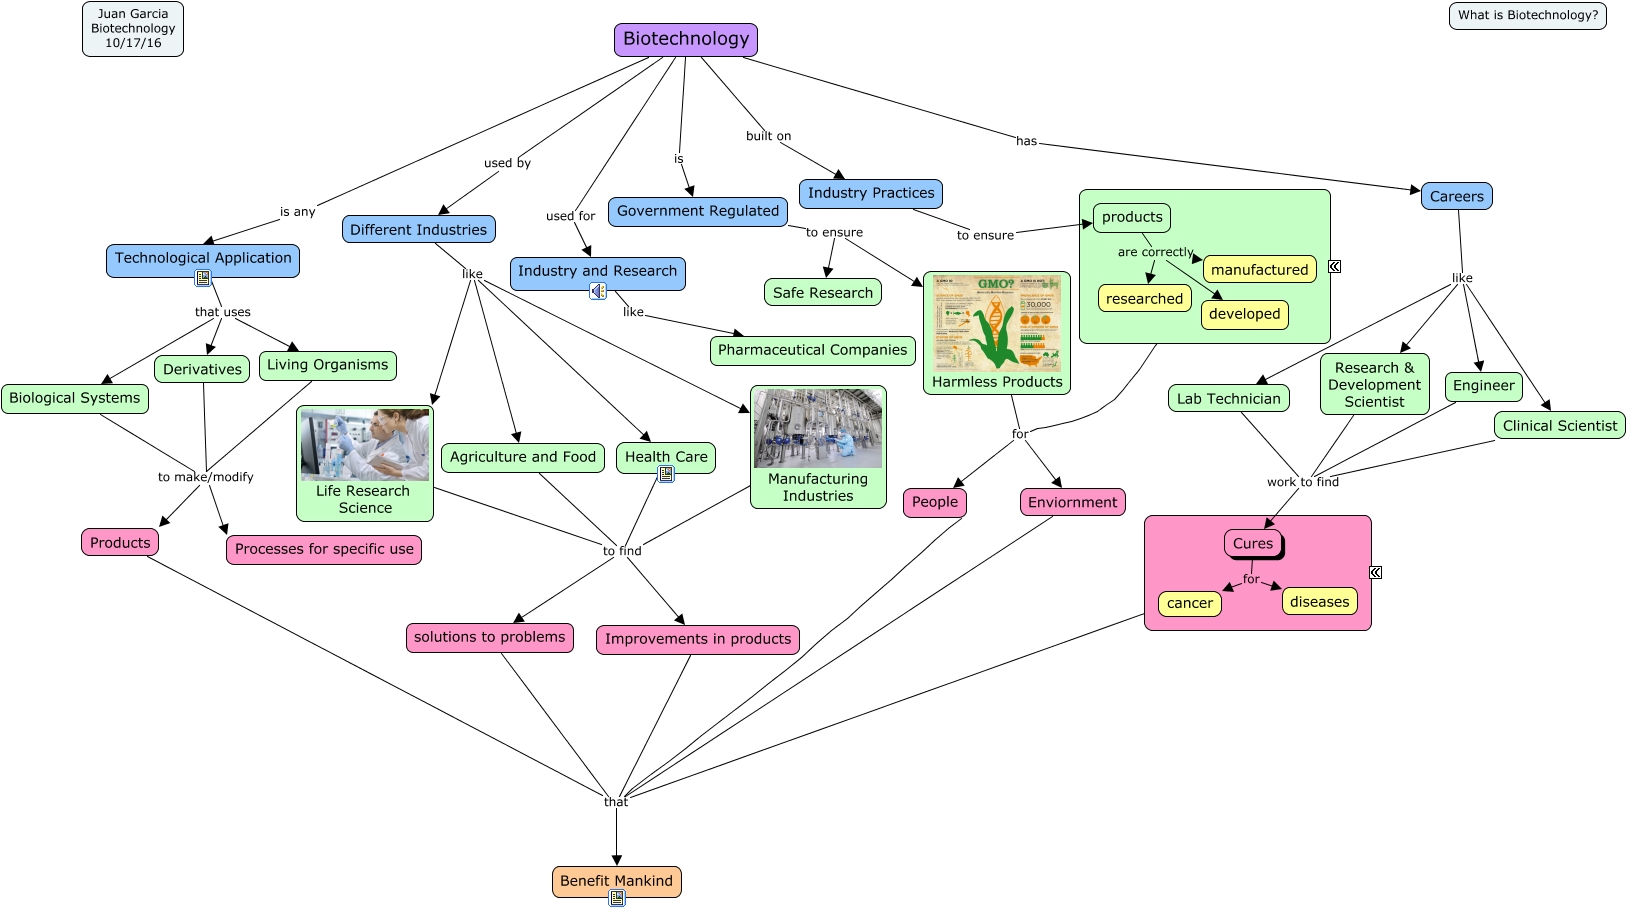
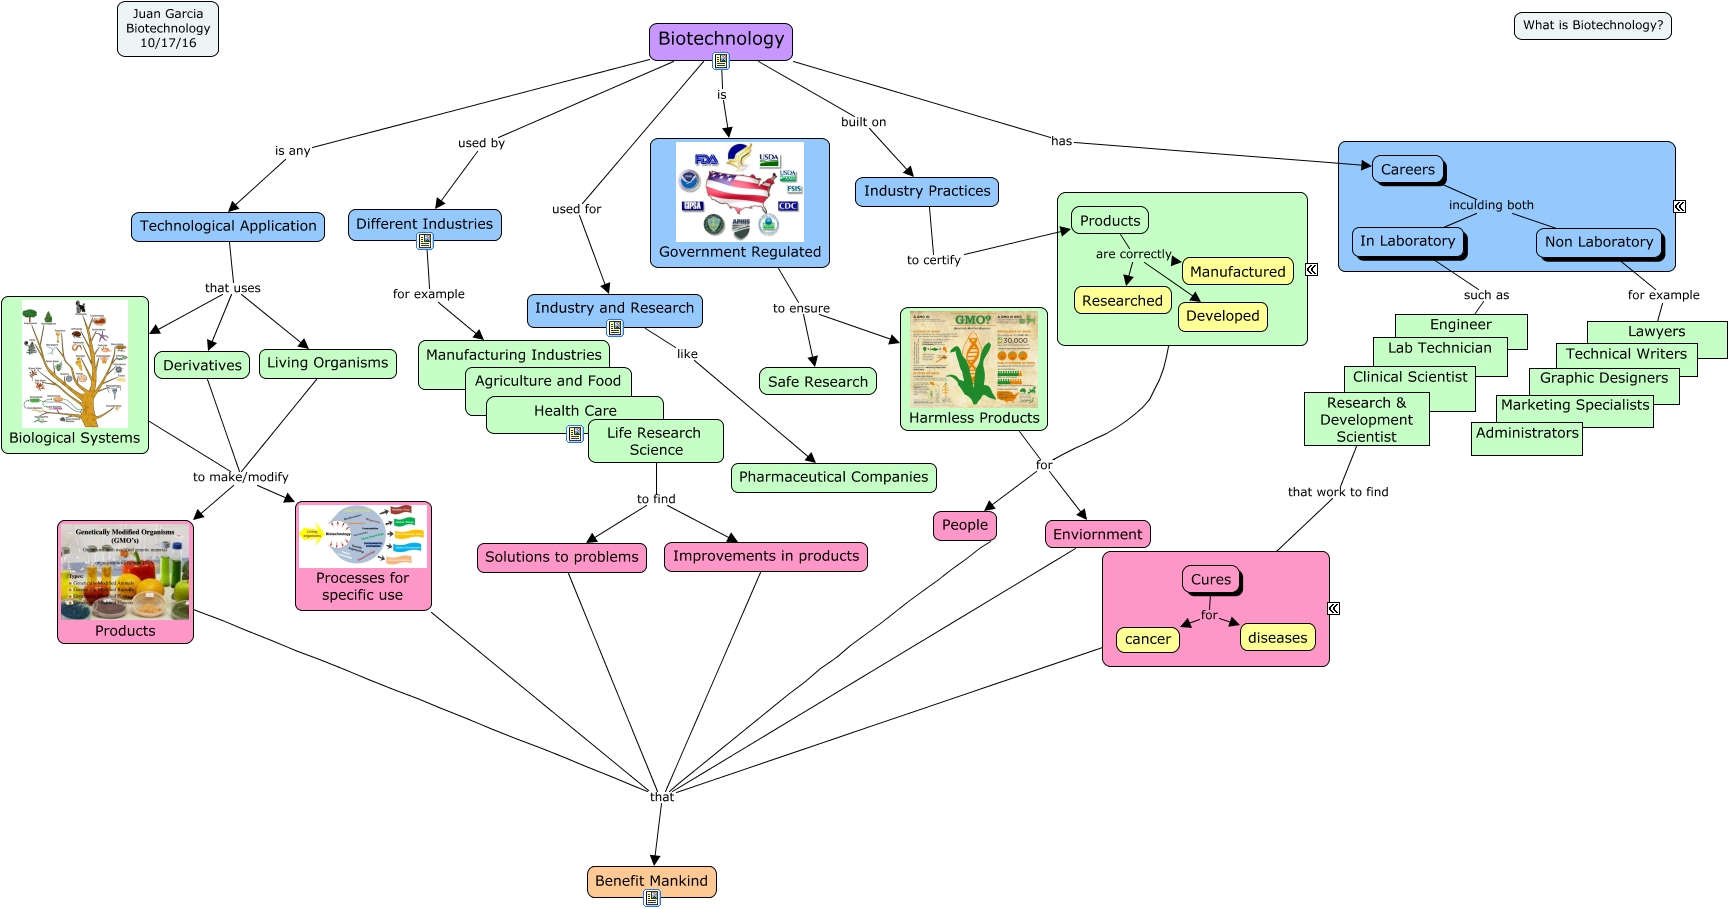
Add files via upload

diff --git a/BiotechExport/Biotech.html b/BiotechExport/Biotech.html
@@ -2,8 +2,8 @@
 <HEAD>
   <TITLE>Biotech.html</TITLE>
   <meta NAME = "GENERATOR"          CONTENT = "IHMC CmapTools vr. 4.12 ">
-  <meta NAME = "KEYWORDS"           CONTENT = "Juan Garcia, Concept Map, cmap, CmapTools, IHMC, Biotech,  Clinical Scientist,  Research & Development Scientist,  Industry and Research,  Lab Technician,  Health Care,  developed,  Cures,  People,  Good Production,  Technological Application,  Harmless Products,  solutions to problems,  Benefit Mankind,  Agriculture and Food,  Juan Garcia Biotechnology 10/17/16,  Engineer,  Life Research Science,  Biological Systems,  researched,  manufactured">
-  <meta NAME = "DESCRIPTION"        CONTENT = "This Concept Map, created with IHMC CmapTools, has information related to: Biotech, Government Regulated to ensure Safe Research, Cures for diseases, Industry Practices to ensure products, Cures that Benefit Mankind, Engineer work to find Cures, Biotechnology is any Technological Application, Careers like Clinical Scientist, Government Regulated to ensure Harmless Products, Living Organisms to make/modify Products, Different Industries like Manufacturing Industries, Biological Systems to make/modify Products, Technological Application that uses Biological Systems, Life Research Science to find solutions to problems, Health Care to find Improvements in products, products are correctly developed, Life Research Science to find Improvements in products, Cures for cancer, Research & Development Scientist work to find Cures, Products that Benefit Mankind, Agriculture and Food to find solutions to problems">
+  <meta NAME = "KEYWORDS"           CONTENT = "Juan Garcia, Concept Map, cmap, CmapTools, IHMC, Biotech,  Derivatives,  Cures,  Benefit Mankind,  Technological Application,  Industry Practices,  Lawyers,  In Laboratory,  Technical Writers,  Government Regulated,  Careers,  Safe Research,  Careers,  Industry and Research,  cancer,  Cures,  Graphic Designers,  Processes for specific use,  Engineer,  People,  Biological Systems">
+  <meta NAME = "DESCRIPTION"        CONTENT = "This Concept Map, created with IHMC CmapTools, has information related to: Biotech, Good Production for Enviornment, Products are correctly Developed, Industry Practices to certify Products, Biotechnology has Careers, Government Regulated to ensure Safe Research, Products that Benefit Mankind, Derivatives to make/modify Processes for specific use, Life Research Science to find Solutions to problems, Research & Development Scientist that work to find Cures, Derivatives to make/modify Products, Biotechnology used by Different Industries, In Laboratory such as Engineer, Non Laboratory for example Lawyers, Biotechnology built on Industry Practices, Living Organisms to make/modify Products, Biological Systems to make/modify Processes for specific use, Industry and Research like Pharmaceutical Companies, Improvements in products that Benefit Mankind, Cures that Benefit Mankind, Cures for cancer">
   <meta NAME = "AUTHOR"             CONTENT = "IHMC CmapTools">
   <meta HTTP-EQUIV = "Content-Type" CONTENT = "text/html; charset = UTF-8">
   <script LANGUAGE="JavaScript1.2">
@@ -205,27 +205,31 @@
       </td>
     </tr>
   </table>
-This Concept Map, created with IHMC CmapTools, has information related to: Biotech, Government Regulated to ensure Safe Research, Cures for diseases, Industry Practices to ensure products, Cures that Benefit Mankind, Engineer work to find Cures, Biotechnology is any Technological Application, Careers like Clinical Scientist, Government Regulated to ensure Harmless Products, Living Organisms to make/modify Products, Different Industries like Manufacturing Industries, Biological Systems to make/modify Products, Technological Application that uses Biological Systems, Life Research Science to find solutions to problems, Health Care to find Improvements in products, products are correctly developed, Life Research Science to find Improvements in products, Cures for cancer, Research & Development Scientist work to find Cures, Products that Benefit Mankind, Agriculture and Food to find solutions to problems
+This Concept Map, created with IHMC CmapTools, has information related to: Biotech, Good Production for Enviornment, Products are correctly Developed, Industry Practices to certify Products, Biotechnology has Careers, Government Regulated to ensure Safe Research, Products that Benefit Mankind, Derivatives to make/modify Processes for specific use, Life Research Science to find Solutions to problems, Research & Development Scientist that work to find Cures, Derivatives to make/modify Products, Biotechnology used by Different Industries, In Laboratory such as Engineer, Non Laboratory for example Lawyers, Biotechnology built on Industry Practices, Living Organisms to make/modify Products, Biological Systems to make/modify Processes for specific use, Industry and Research like Pharmaceutical Companies, Improvements in products that Benefit Mankind, Cures that Benefit Mankind, Cures for cancer
 
 </noscript>
 
 <map name="Biotech.html">
   <area shape="rect"
-        href="1QP5S8WXYI14M05G2IMLIaudio"
-        onClick="popUpEvt(event,'1QP5S8WXYI14M05G2IMLIaudio'); return false;"
-        coords="589,282,607,300">
+        href="1QP5WT5ZYIYQFWGFI27KItextIhtml"
+        onClick="popUpEvt(event,'1QP5WT5ZYIYQFWGFI27KItextIhtml'); return false;"
+        coords="643,889,661,907">
+  <area shape="rect"
+        href="1QP5S8WXYI14M05G2IMLItextIhtml"
+        onClick="popUpEvt(event,'1QP5S8WXYI14M05G2IMLItextIhtml'); return false;"
+        coords="606,319,624,337">
   <area shape="rect"
         href="1QNZY3TLKI6Z6Y2DI139ItextIhtml"
         onClick="popUpEvt(event,'1QNZY3TLKI6Z6Y2DI139ItextIhtml'); return false;"
-        coords="657,465,675,483">
+        coords="566,425,584,443">
   <area shape="rect"
-        href="1QNZW0ML5I10RD9QBIH7ItextIhtml"
-        onClick="popUpEvt(event,'1QNZW0ML5I10RD9QBIH7ItextIhtml'); return false;"
-        coords="194,269,212,287">
+        href="1QNZW077GI1N2D9BHIGGItextIhtml"
+        onClick="popUpEvt(event,'1QNZW077GI1N2D9BHIGGItextIhtml'); return false;"
+        coords="712,52,730,70">
   <area shape="rect"
-        href="1QP5WT5ZYIYQFWGFI27KItextIhtml"
-        onClick="popUpEvt(event,'1QP5WT5ZYIYQFWGFI27KItextIhtml'); return false;"
-        coords="608,889,626,907">
+        href="1QNZXNZLQIGWDW6LIYDItextIhtml"
+        onClick="popUpEvt(event,'1QNZXNZLQIGWDW6LIYDItextIhtml'); return false;"
+        coords="416,232,434,250">
 </map>
 
 <center>
@@ -270,11 +274,24 @@ This Concept Map, created with IHMC CmapTools, has information related to: Biote
 </center>
 </BODY>
 </HTML>
-<div id="1QP5S8WXYI14M05G2IMLIaudio" style="POSITION: absolute; Z-INDEX: 20; VISIBILITY: hidden; left: 0; top: 0;">
+<div id="1QP5WT5ZYIYQFWGFI27KItextIhtml" style="POSITION: absolute; Z-INDEX: 20; VISIBILITY: hidden; left: 0; top: 0;">
   <table border=1 cellpadding=1 cellspacing=0 bgcolor="#dddddd">
     <tr>
       <td nowrap><font face="Geneva, Arial" size=2>
-      CRISPR Tedtalk: Not Found
+      <a href="https://www.youtube.com/watch?v=ZTxBZ25WA4g "TITLE="">
+      BSc courses- Biotechnology at The University of Manchester - YouTube
+      </a>
+      </td>
+    </tr>
+  </table>
+</div>
+<div id="1QP5S8WXYI14M05G2IMLItextIhtml" style="POSITION: absolute; Z-INDEX: 20; VISIBILITY: hidden; left: 0; top: 0;">
+  <table border=1 cellpadding=1 cellspacing=0 bgcolor="#dddddd">
+    <tr>
+      <td nowrap><font face="Geneva, Arial" size=2>
+      <a href="https://www.ted.com/talks/ellen_jorgensen_what_you_need_to_know_about_crispr "TITLE="">
+      Ellen Jorgensen- What you need to know about CRISPR - TED Talk - TED.com
+      </a>
       </td>
     </tr>
   </table>
@@ -283,25 +300,31 @@ This Concept Map, created with IHMC CmapTools, has information related to: Biote
   <table border=1 cellpadding=1 cellspacing=0 bgcolor="#dddddd">
     <tr>
       <td nowrap><font face="Geneva, Arial" size=2>
-      Healthcare & Biotech: Not Found
+      <a href="http://assobiotec.federchimica.it/en/areas-of-application/healthcare-biotechnology "TITLE="">
+      Healthcare biotechnology
+      </a>
       </td>
     </tr>
   </table>
 </div>
-<div id="1QNZW0ML5I10RD9QBIH7ItextIhtml" style="POSITION: absolute; Z-INDEX: 20; VISIBILITY: hidden; left: 0; top: 0;">
+<div id="1QNZW077GI1N2D9BHIGGItextIhtml" style="POSITION: absolute; Z-INDEX: 20; VISIBILITY: hidden; left: 0; top: 0;">
   <table border=1 cellpadding=1 cellspacing=0 bgcolor="#dddddd">
     <tr>
       <td nowrap><font face="Geneva, Arial" size=2>
-      Systemsbiology.org: Not Found
+      <a href="https://www.bio.org/what-biotechnology "TITLE="">
+      What is Biotechnology- - BIO
+      </a>
       </td>
     </tr>
   </table>
 </div>
-<div id="1QP5WT5ZYIYQFWGFI27KItextIhtml" style="POSITION: absolute; Z-INDEX: 20; VISIBILITY: hidden; left: 0; top: 0;">
+<div id="1QNZXNZLQIGWDW6LIYDItextIhtml" style="POSITION: absolute; Z-INDEX: 20; VISIBILITY: hidden; left: 0; top: 0;">
   <table border=1 cellpadding=1 cellspacing=0 bgcolor="#dddddd">
     <tr>
       <td nowrap><font face="Geneva, Arial" size=2>
-      Biotech Video: Not Found
+      <a href="http://biotech-365.com/biotech-companies-usa/ "TITLE="">
+      Biotech Companies USA - Biotech 365
+      </a>
       </td>
     </tr>
   </table>
